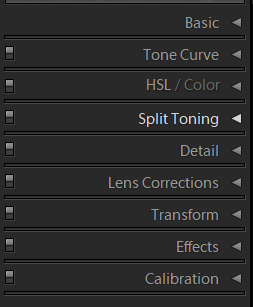
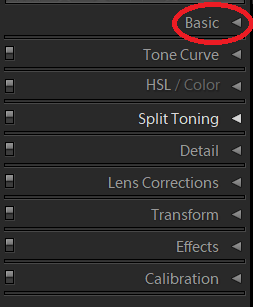
added image to portrait instructions

Changed region(s): [[0.664, 0.0, 1.0, 0.1466]]

diff --git a/docs/navigation-structure.md b/docs/navigation-structure.md
@@ -25,6 +25,7 @@ A well edited photo holds many advantages in the corporate setting. As the sayin
 
 ## Skin Tone
 1. To adjust the skin tone of the image, click on **Basic**.
+    >![Portrait](https://raw.githubusercontent.com/jmajam/hans-and-justin-lightroom/gh-pages/docs/images/Portrait/basic.png)
 2. Adjust the **Temp** slider until you feel the skin tone is natural.
 
 ## Hair Detail
@@ -34,13 +35,19 @@ A well edited photo holds many advantages in the corporate setting. As the sayin
 ## Blemish Removal
 1. Hit `Q` to activate the spot removal tool.
 2. Click on **Heal**. Make sure your **Opacity** slider is set to 100 and the **Feathering** slider is at 0.
-3. Click and drag over the spots you want to clear. Adjust the size of the tool by using your scroll wheel. 
+    >![Portrait](https://raw.githubusercontent.com/jmajam/hans-and-justin-lightroom/gh-pages/docs/images/Portrait/brush_menu.png)
+3. Click and drag over the spots you want to clear. Adjust the size of the tool by using your scroll wheel.
+    >![Portrait](https://raw.githubusercontent.com/jmajam/hans-and-justin-lightroom/gh-pages/docs/images/Portrait/highlight_under_the_eyes.png)
+ 
     * You should see another point show up on the image.
+    >![Portrait](https://raw.githubusercontent.com/jmajam/hans-and-justin-lightroom/gh-pages/docs/images/Portrait/show_second_point_when_removing_blemishes.png)
+
     * Drag that point until the spot you highlighted is to your liking.
 
 ## Skin Smoothing
 1. Hit `K` to activate the adjustment brush.
 2. Set the **Clarity** slider to -40 and the **Sharpness** slider to around 10.
+     >![Portrait](https://raw.githubusercontent.com/jmajam/hans-and-justin-lightroom/gh-pages/docs/images/Portrait/adjustment_brush_settings_for_skin_smoothening.png)
 3. Click and drag the areas on the skin you want to smooth out.
 4. Adjust the **Clarity** and **Sharpness** sliders until the skin is to your liking.
 
@@ -48,6 +55,7 @@ A well edited photo holds many advantages in the corporate setting. As the sayin
 1. Return all the sliders in the adjustment brush tool to zero by double clicking on them.
 2. Set the **Clarity** slider to 0.40 and the **Saturation** slider to -60.
 3. Make sure the auto mask box is ticked. If not, click on the box to tick it.
+     >![Portrait](https://raw.githubusercontent.com/jmajam/hans-and-justin-lightroom/gh-pages/docs/images/Portrait/auto_mask.png)
     * This will ensure that only the teeth will be affected by the tool.
 4. Click and drag on the teeth. You should see them whiten.
 5. Adjust the **Exposure** and **Saturation** sliders until the teeth is to your liking.
